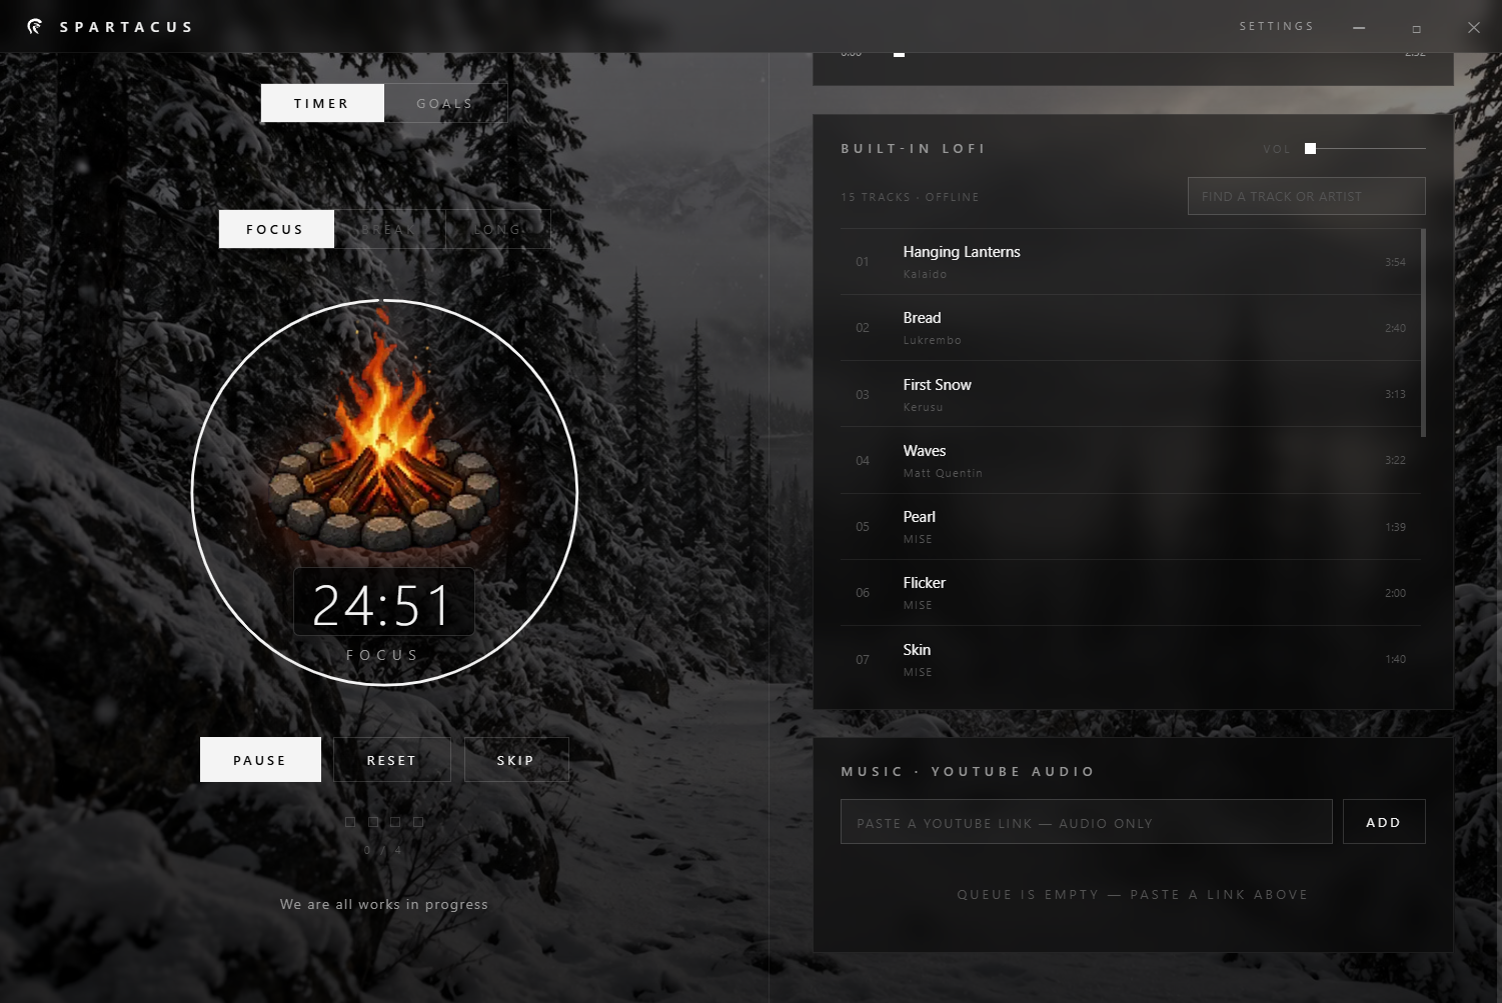
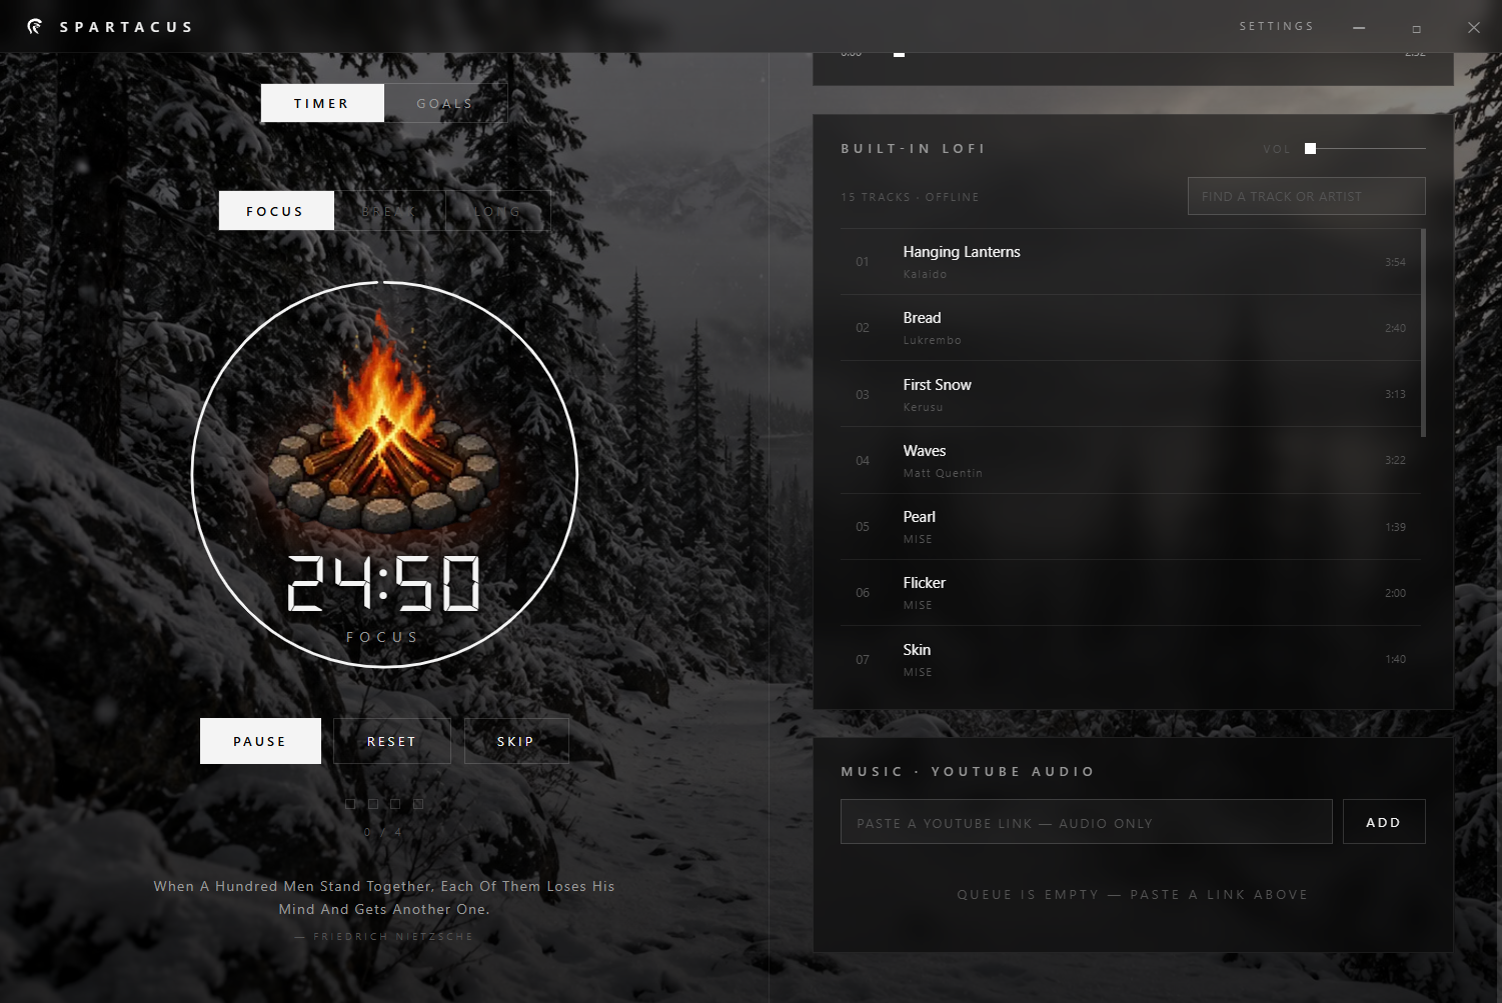
Use digital timer numerals without background panel

diff --git a/renderer/style.css b/renderer/style.css
@@ -2,6 +2,14 @@
    SPARTACUS — minimalist monochrome
    ============================================================ */
 
+@font-face {
+  font-family: "DSEG7 Modern";
+  src: url("../assets/fonts/DSEG7Modern-Regular.woff2") format("woff2");
+  font-style: normal;
+  font-weight: 400;
+  font-display: swap;
+}
+
 :root {
   --bg: #000;
   --ink: #f4f4f4;
@@ -210,16 +218,14 @@ main {
 }
 
 .time {
-  padding: 5px 14px 4px;
-  border: 1px solid rgba(255, 255, 255, 0.16);
-  border-radius: 5px;
-  background: rgba(0, 0, 0, 0.72);
-  box-shadow: 0 7px 22px rgba(0, 0, 0, 0.55);
-  font-size: 45px;
-  font-weight: 100;
-  letter-spacing: 0.06em;
-  line-height: 1;
-  font-variant-numeric: tabular-nums;
+  padding: 4px 0 2px;
+  font-family: "DSEG7 Modern", monospace;
+  font-size: 44px;
+  font-weight: 400;
+  letter-spacing: 0.045em;
+  line-height: 1.15;
+  white-space: nowrap;
+  text-shadow: 0 2px 5px rgba(0, 0, 0, 0.95), 0 0 16px rgba(0, 0, 0, 0.8);
 }
 
 .time-label { font-size: 11px; letter-spacing: 0.5em; color: var(--ink-dim); }
@@ -849,15 +855,14 @@ body.mini-mode .mini-bar {
   z-index: 2;
 }
 .mini-time {
-  padding: 3px 7px 2px;
-  border: 1px solid rgba(255, 255, 255, 0.15);
-  border-radius: 3px;
-  background: rgba(0, 0, 0, 0.72);
+  padding: 2px 0 1px;
+  font-family: "DSEG7 Modern", monospace;
   font-size: 23px;
-  font-weight: 100;
-  letter-spacing: 0.04em;
-  font-variant-numeric: tabular-nums;
-  line-height: 1;
+  font-weight: 400;
+  letter-spacing: 0.035em;
+  line-height: 1.15;
+  white-space: nowrap;
+  text-shadow: 0 1px 3px rgba(0, 0, 0, 0.98), 0 0 9px rgba(0, 0, 0, 0.82);
 }
 .mini-label { font-size: 8px; letter-spacing: 0.32em; color: var(--ink-dim); }
 

diff --git a/renderer/index.html b/renderer/index.html
@@ -229,6 +229,7 @@
         LUKREMBO, KALAIDO, KERUSU, MATT QUENTIN (ROYALTY-FREE, USED WITH CREDIT) &middot;
         AMBIENCE: PUBLIC DOMAIN / CC0 RECORDINGS; FIREPLACE FROM <a href="https://commons.wikimedia.org/wiki/File:Valley_Forge_Yule_Log.webm" target="_blank" rel="noopener noreferrer">VALLEY FORGE NPS</a> AND <a href="https://commons.wikimedia.org/wiki/File:Dry_grass_burning_in_open_fireplace.ogg" target="_blank" rel="noopener noreferrer">EZWA</a> (PUBLIC DOMAIN, EDITED LOOP) &middot;
         TIMER FIRE: <a href="https://www.autosprite.io/free-sprites/campfire" target="_blank" rel="noopener noreferrer">AUTOSPRITE CAMPFIRE</a> (CC0) &middot;
+        TIMER TYPE: <a href="https://github.com/keshikan/DSEG" target="_blank" rel="noopener noreferrer">DSEG7 MODERN</a> (OFL 1.1) &middot;
         APP ICON: ORIGINAL SPARTACUS HELMET MARK
       </div>
       <div class="philosophy">

diff --git a/docs/VISUAL_ASSETS.md b/docs/VISUAL_ASSETS.md
@@ -4,6 +4,8 @@ The application backgrounds were generated with Codex's built-in image generatio
 
 The timer fire uses [AutoSprite's CC0 Campfire animation](https://www.autosprite.io/free-sprites/campfire). The flame, sparks, wood, and stones are one integrated source animation, with 16 frames smoothly interpolated to 64 output frames. The logs and stones remain fixed while only the flame shrinks between full, half, and ember stages; no previously generated campfire base is included. The release contains only optimized animated WebP files; rebuilding instructions are in `assets/timer/README.md`.
 
+The timer numerals use [DSEG7 Modern](https://github.com/keshikan/DSEG), a seven-segment display font by keshikan. The bundled WOFF2 file and its SIL Open Font License 1.1 are in `assets/fonts/`. Each digit has the same advance width, so the countdown stays centered while its value changes.
+
 ## Prompts
 
 Default background:
